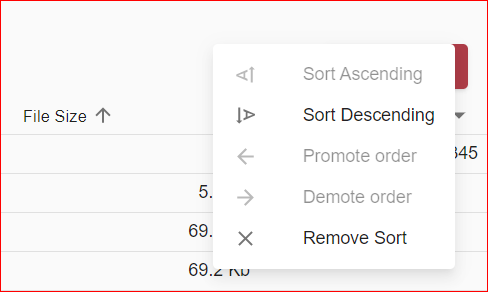
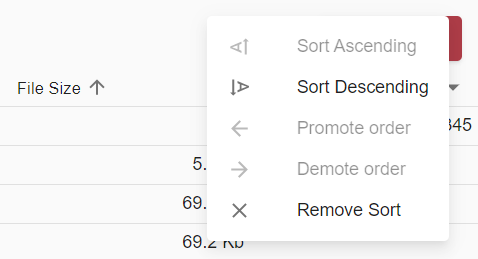
U7-3304: Configuration added, red frames removed;

diff --git a/_docs/unity-react/components/grid.md b/_docs/unity-react/components/grid.md
@@ -12,13 +12,13 @@ category: Unity 7
 
 ## Multiple Column Sorting
 
-Default Grid allows multiple columns to be sorted at a time within the content list.
+Default grid allows multiple columns to be sorted at a time within the content list. Grid column can be configured as sortable or not.
 
-To sort grid by a column, move mouse over the column header and grayed out arrow (sorting direction indicator) will appear. Clicking to column will activate ascending sorting and its icon will become contrast. Next click will toggle sorting to descending, and third click will remove sorting for the column, and so on.
+To sort grid by a sortable column, move mouse over the column header and grayed out arrow (sorting direction indicator) will appear. Clicking to the column header or the arrow will activate ascending sorting and its icon will become contrast. Next click will toggle sorting to descending, and third click will remove sorting for the column, and so on.
 
 ![react_multiple-column-sorting-arrow](grid/images/multicolumnsort_react_arrow.png) 
 
-Sorting direction may be changed also via column menu. Click to down-pointing triangle in the column header, and menu will open. There are options _Sort Ascending_, _Sort Descending_ and _Remove sort_ that work as per above. 
+Sorting direction may be changed also via column menu. To open the menu, click to down-pointing triangle in the column header. There are options _Sort Ascending_, _Sort Descending_ and _Remove sort_ that work as per above. 
 
 ![react_multiple-column-sorting-menu](grid/images/multicolumnsort_react_menu.png) 
 
@@ -28,12 +28,16 @@ It is allowed to have up to 6 columns sorted simultaneously per grid. To change 
 
 ![react_multiple-column-sorting-order](grid/images/multicolumnsort_react_order.png) 
 
-Per each grid, user defined sorting order is saved into browser storage and restored on next session.
+Per each grid, user defined sorting order is saved into browser storage and restored on next session. 
+
+Default sorting order may be configured on a per-grid or per-SearchTemplate basis. It is used until user overrides it.
 
 This feature implemented for:
 
-- Tabs: Search Template, Folder View, Advanced Search
+- Tabs: Search Template, Folder View
 - Data Providers: FileNet, CMIS, UIE (except JOIN function) 
+
+[Configure Multiple Column Sorting](../configuration/grids.md)
 
 ## Column spanning 
 *Content to be added*

diff --git a/_docs/unity-react/configuration/grids.md b/_docs/unity-react/configuration/grids.md
@@ -3,7 +3,48 @@ title: Grids Configuration
 layout: docs
 category: Unity 7
 ---
+## Multiple Column Sorting
 
+`Property` boolean attribute `Sortable` controls sorting by the column:
 
+```xml
+<Property ID="ContentSize">
+    <Name>File Size</Name>
+    <Type>int</Type>
+    <Resizable>true</Resizable>
+    <Sortable>true</Sortable>
+    <MultiValue>false</MultiValue>
+    <XType>vspace-filesize-column</XType>
+    <Width>70</Width>
+    <Tooltip/>
+</Property>
+```
 
+Default sorting may be defined on the `SearchTemplate` level or on the `Grid` level. If defained on both levels, setting from the grid is in effect.
 
+`SortField` value refers to a `Property`'s `ID` attribute (the property should be sortable).
+
+Optional `Order` attribute may have value `ASC` for ascending and `DESC` for descending order (`ASC` is a default). 
+
+```xml
+<SearchTemplate ID="templateByDate">
+    <SortFields>
+        <SortField Order="DESC">$modify_date</SortField>
+        <SortField Order="ASC">$title</SortField>
+    </SortFields>
+    <!-- not relevant nodes skipped -->
+</SearchTemplate>
+```
+
+```xml
+<Grid ID="parents-grid">
+    <Columns>
+        <ColumnSet ID="grid-default-colset" type="default"/>
+        <SortFields>
+            <SortField Order="ASC">DocumentTitle</SortField>
+            <SortField Order="DESC">ContentSize</SortField>
+        </SortFields>
+    </Columns>
+    <!-- not relevant nodes skipped -->
+</Grid>
+```
